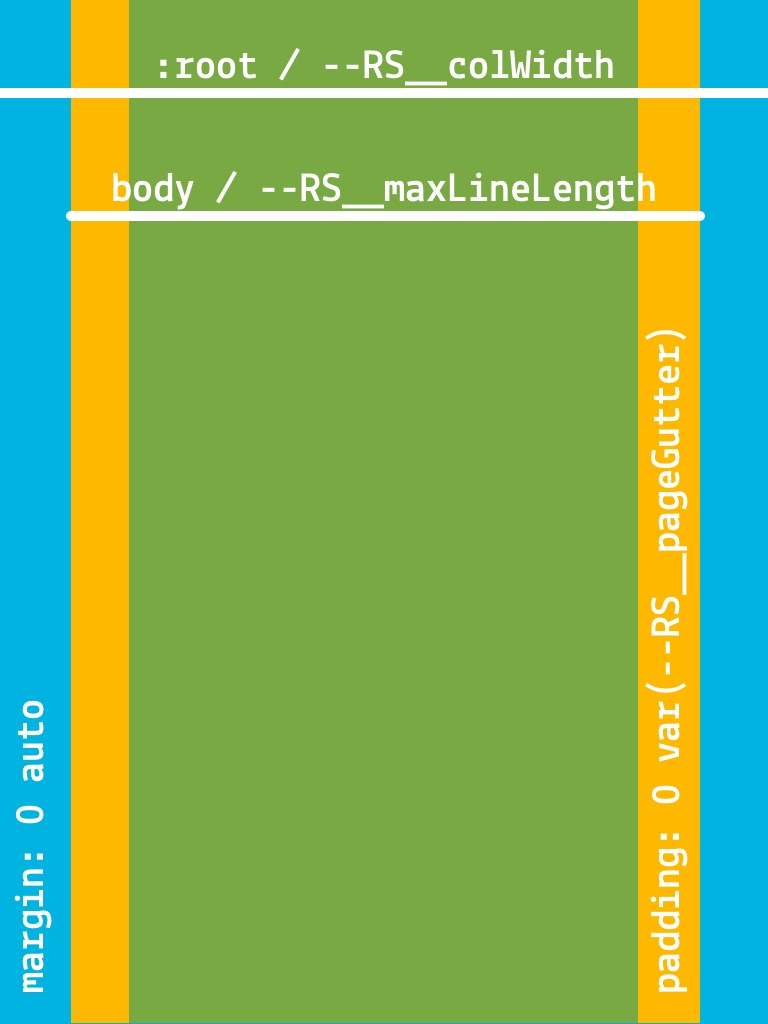
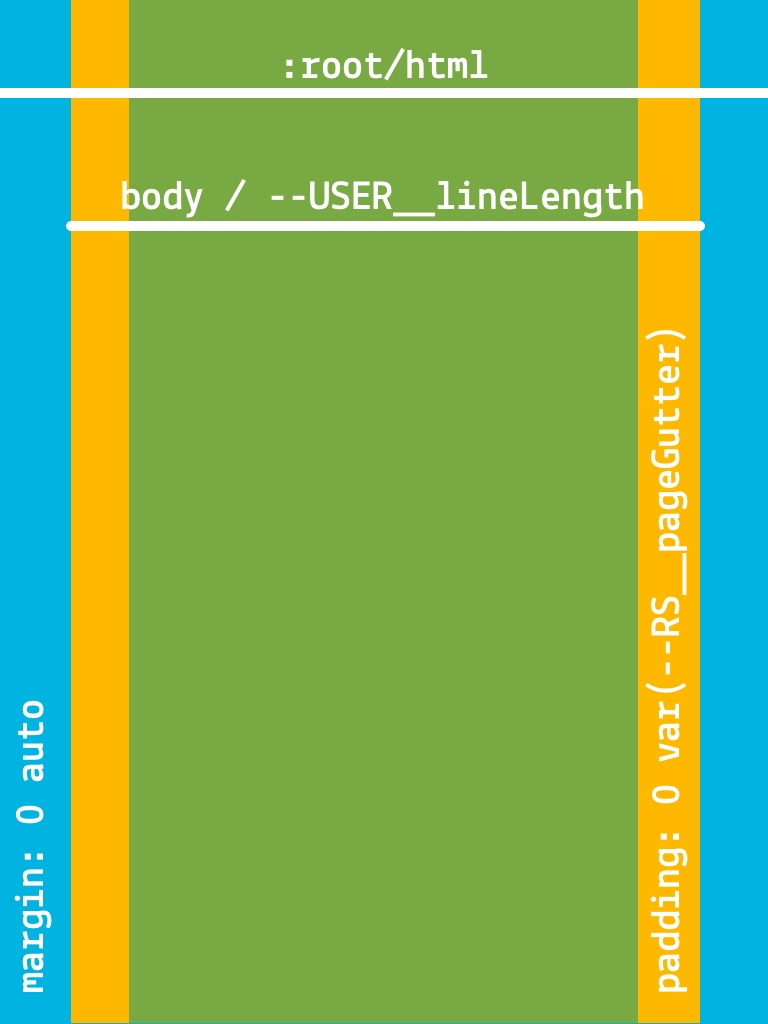
Update pagination model in docs

Changed region(s): [[0.0938, 0.1562, 0.9375, 0.25], [0.2188, 0.0312, 0.8125, 0.0938]]

diff --git a/docs/CSS03-injection_and_pagination.md b/docs/CSS03-injection_and_pagination.md
@@ -69,25 +69,15 @@ You can control horizontal margins in several ways:
 
 Please note that when using `padding`, you must take it into account when sizing `:root` and/or `body`. Their widths contain the padding set for the element.
 
-### The auto pagination model
+### The pagination model
 
-TODO: update section once tested and validated.
-
-The following illustrations are the two models you’ll have to deal with.
+This is the model you’re dealing with. It’s been simplified in version 2 in order to be more reliable.
 
 ![The single page model relies on the column width of the :root element. Line-length is constrained by the max-width of the body element, including its padding. Finally an auto margin centers the content.](assets/Page-Model.jpg)
 
-A single page is just a column which can grow to the entire width of the web view/iframe since it is declared for `html`.
+Page gutters are part of `body` (`--RS__pageGutter`), hence `--USER__lineLength` (or `--RS__defaultLineLength` if no user preference is set). Contents are centered in `:root` using the `auto` value for `body` margins.
 
-Page margins are part of `body`, hence `--RS__maxLineLength`. Contents are centered using the `auto` value for `body` margins.
-
-![The two-column spread model is somehow simpler in the sense the column width is the minimum value that must be reached for this model to be applied. We are relying on left and right padding instead of column-gap for gutters.](assets/spread-model.jpg)
-
-In the spread model, i.e. two columns, the `--RS__colWidth` is a floor: once the minimum width available (viewport) can’t contain 2 columns (the value is computed from the `font-size` user setting), we switch to the single page model.
-
-For instance, if `--RS__colWidth` is `20em` and the `font-size`, `100%` (`16px`), then the floor is `320px`. If 2 columns can fit in the viewport, the spread model is applied. If they can’t, the page model is applied. Hence, if the user sets the `font-size` at `200%` (`32px`), the floor is `640px`, which means the viewport should be at least `1240px`-wide to apply the spread model.
-
-Since we still limit line-length in the spread model, you might want to limit the web view/iframe size so that you don’t end up with wide gaps on large screens (or add `padding` to `:root`, and take it into account when scrolling).
+By default, `--RS__pageGutter` is set to `0`. You can set it as you wish, but take into account it will substract from `--USER__lineLength`. 
 
 #### Variables you can set
 
@@ -135,7 +125,15 @@ The horizontal page margins. It must be set in pixels so that it won’t resize 
 --RS__defaultLineLength
 ```
 
-The default line-length when none is set by the user. It must be set in `rem` in order to take `:root`’s `font-size` as a reference, whichever the `body`’s `font-size` might be.
+The default line-length when none is set by the user. It should be set in `rem` in order to take `:root`’s `font-size` as a reference, whichever the `body`’s `font-size` might be.
+
+* * *
+
+```
+__USER__lineLength
+```
+
+The line-length set by the user. It can be set in any unit CSS property `max-width` accepts.
 
 ### Right-to-left progression
 
